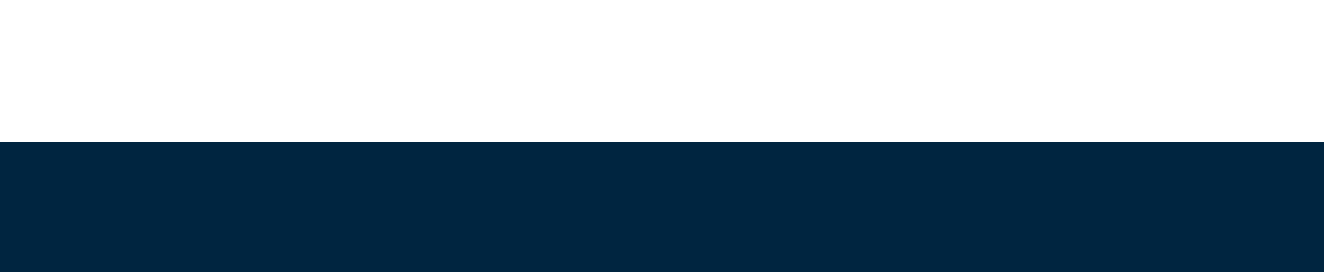
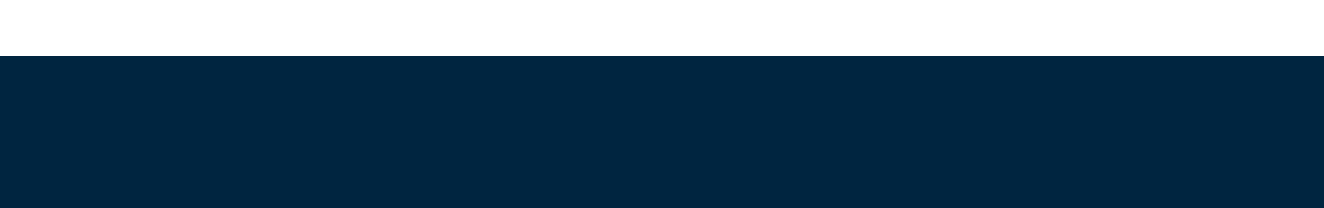
footer

Changed region(s): [[0.0, 0.2596, 1.0, 0.5481]]

diff --git a/css/style.css b/css/style.css
@@ -11,7 +11,8 @@ body{ width: 100%;
   padding: 0px;}
 
 footer{
-    margin-left: 400px;
+    margin-left: 500px;
+    margin-top: 60px;
     display: inline-block;
 }
 
